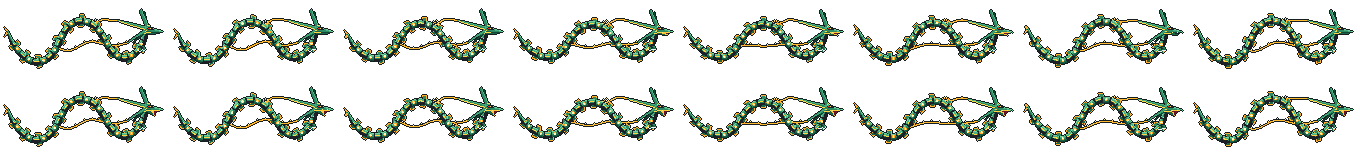
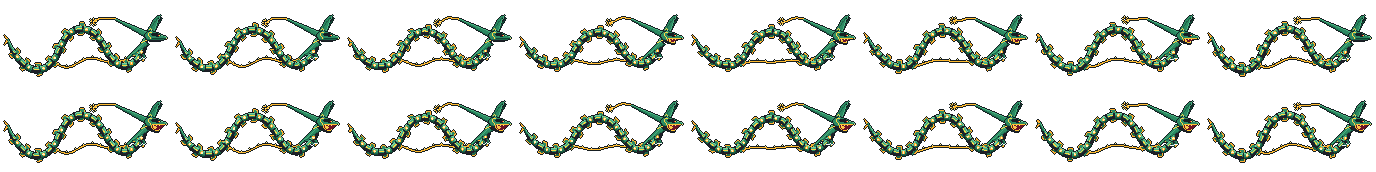
Rayquaza: face redone from scratch, hand-placed pixels from the user's references
Compact wedge head with a crest point, big angry almond eye with the iris
at the front, yellow outline arching behind the eye, thin snout with a
small hooked fang, serrated upper teeth and a deep mauve mouth that opens
downward. Broad upright horn leaning forward, long horn sweeping back and
a long jaw horn. Closed / half / open jaw frames; Mega keeps its black
chin, gold lips, red eyes and forehead delta. Dragon Breath re-aimed at
the new mouth position.

Claude-Session: https://claude.ai/code/session_01CKn8DYnJRYg8MUTevGPU3q

Changed region(s): [[0.0, 0.5641, 1.0, 0.9487], [0.0, 0.0769, 1.0, 0.4359]]

diff --git a/js/config.js b/js/config.js
@@ -122,8 +122,8 @@ export const FORMS = {
   pidgey: { line: 'pidgey', name: 'Pidgey', type: 'flying', stage: 0, next: [{ to: 'pidgeotto', r: 'evo_pidgeotto' }] },
   pidgeotto: { line: 'pidgey', name: 'Pidgeotto', type: 'flying', stage: 1, next: [{ to: 'pidgeot', r: 'evo_pidgeot' }] },
   pidgeot: { line: 'pidgey', name: 'Pidgeot', type: 'flying', stage: 2 },
-  rayquaza: { line: 'rayquaza', name: 'Rayquaza', type: 'dragon', stage: 0, mouth: [65, -45], anim: 8, next: [{ to: 'megarayquaza', r: 'megastone' }] },
-  megarayquaza: { line: 'rayquaza', name: 'Mega Rayquaza', type: 'dragon', stage: 1, mouth: [70, -52], anim: 8, proj: 'megabreath', mult: { hp: 2, dmg: 1.8, range: 1.5, speed: 1.2 } },
+  rayquaza: { line: 'rayquaza', name: 'Rayquaza', type: 'dragon', stage: 0, mouth: [67, -47], anim: 8, next: [{ to: 'megarayquaza', r: 'megastone' }] },
+  megarayquaza: { line: 'rayquaza', name: 'Mega Rayquaza', type: 'dragon', stage: 1, mouth: [72, -53], anim: 8, proj: 'megabreath', mult: { hp: 2, dmg: 1.8, range: 1.5, speed: 1.2 } },
 };
 
 export const BUILDINGS = {

diff --git a/tools/rayquaza.py b/tools/rayquaza.py
@@ -83,7 +83,7 @@ class Canvas:
 NORMAL = {
     "hi": (150, 232, 196), "light": (98, 204, 156), "mid": (64, 170, 124), "dark": (42, 130, 96), "shadow": (28, 94, 72),
     "line": (250, 218, 74), "trim": (224, 72, 84), "trimdark": (160, 40, 60),
-    "mouth": (104, 22, 40), "gum": (240, 124, 146), "lip": (222, 60, 72), "fang": (250, 250, 250),
+    "mouth": (150, 84, 116), "gum": (214, 150, 186), "lip": (190, 74, 104), "fang": (250, 250, 250),
     "eye": (250, 222, 70), "pupil": (20, 20, 24), "claw": (244, 244, 248),
     "black": (34, 34, 42), "blackhi": (58, 58, 70),
 }
@@ -192,78 +192,101 @@ def serpent(cv, spine_pts, radius, pal, segments=10, mega=False, black=None):
     return sp, S, tang
 
 
-def head(cv, hx, hy, pal, mega=False, k=0.72, open_=1.0):
-    """Small, sharp head facing right: a narrow beak-like snout under a raised brow crest,
-    angry almond eye, jaw dropped wide open, long thin blade horns.
-    (hx, hy) is where the neck meets the back of the skull. Returns the horn tips."""
-    def P(dx, dy):
-        return (hx + dx * k, hy + dy * k)
+# ------------------------------------------------------------------ head (hand-placed pixels)
+# Facing right. Drawn from the user's reference art: a compact wedge head with a crest spike
+# above a long, angry almond eye, a yellow-outlined plate behind the eye, a thin snout that
+# slopes to a small hooked fang, and a deep mouth that opens downward like a beak.
+# K outline, H/L/M/D/S greens, Y yellow line, E iris, P pupil, R lip, O mouth, G tongue, W tooth.
+HEAD_UPPER = [
+    ".......K................",
+    "......KHK...............",
+    "...KKKLMMKKK............",
+    "..KMMYYYMMMMKKK.........",
+    ".KMMYMMMKKKKKKMKK.......",
+    "KMMMYMMKKKKKKKKKMKK.....",
+    "KMMMYMMMKKKKKKEPKHHKK...",
+    "KMMMMYMMMMMMKKKMMMMMLHK.",
+    ".KMMMMYMMMMMMMMMMMMMMMHK",
+]
+HEAD_JAW = {
+    "open": [
+        ".KDMMMYMRRRRRRRRRRRRRKWK",
+        "..KDDMMROWOOWOOWOOOOK.K.",
+        "..KDDDDROGGGOOOOOOOK....",
+        "...KDDDROGGGGOOOOOK.....",
+        "...KDDDDROGGOOOOOK......",
+        "....KDDDDROOOOOWK.......",
+        ".....KKDDDDRRRRK........",
+        ".......KKKDDDDDK........",
+        "..........KKKKK.........",
+    ],
+    "half": [
+        ".KDMMMYMRRRRRRRRRRRRRKWK",
+        "..KDDMMROWOOWOOWOOKK.K..",
+        "..KDDDDROGGOOOOOKK......",
+        "...KKDDDDRROOOWK........",
+        ".....KKDDDDRRRRK........",
+        ".......KKKKDDDDK........",
+        "...........KKKK.........",
+    ],
+    "closed": [
+        ".KDMMMYMSSSSSSSSSSSSSSWK",
+        "..KDDDDDDDDDDDDDDDDDKK..",
+        "...KKDDDDDDDDDDDDKK.....",
+        ".....KKKKKKKKKKKK.......",
+    ],
+}
+HEAD_NECK = (2, 12)  # grid pixel where the neck joins
 
-    def poly(pts, c):
-        cv.poly([P(*p) for p in pts], c)
 
-    def line(a, b, c):
-        (x0, y0), (x1, y1) = P(*a), P(*b)
-        cv.line(x0, y0, x1, y1, c)
+def head(cv, hx, hy, pal, mega=False, open_=1.0):
+    """Draw the head with its neck point at (hx, hy). Returns the horn tips (absolute)."""
+    ox, oy = int(round(hx)) - HEAD_NECK[0], int(round(hy)) - HEAD_NECK[1]
 
-    h = 1.35 if mega else 1.0
-    tip_v = (2 - 6 * h, -8 - 16 * h)      # horn rising up and back
-    tip_b = (-6 - 24 * h, -3 - 9 * h)     # long horn sweeping straight back
-    tip_j = (-4 - 16 * h, 4 + 9 * h)      # long jaw horn hanging back
-    # far-side horns (shadow)
-    poly([(0, -5), (4, -6.5), (tip_v[0] + 5, tip_v[1] + 2)], pal["shadow"])
-    poly([(-1, 1), (2, 2.5), (tip_j[0] + 6, tip_j[1] + 3)], pal["shadow"])
-    # lower jaw swings from closed (tucked under the snout) to wide open
-    o = max(0.0, min(1.0, open_))
-    jx, jy = 20 + (13.5 - 20) * o, 2.6 + (8.6 - 2.6) * o
-    poly([(2, 1.6), (7, 1.4), (jx, jy), (jx - 1.5, jy + 0.8), (2, 4)], pal["dark"])
-    # mouth
-    if o > 0.3:
-        poly([(7, 1.3), (19, 1.3), (jx - 0.5, jy - 0.4)], pal["mouth"])
-        if o > 0.45:
-            poly([(9, 3), (13, 3.3), (jx - 0.5, jy - 2)], pal["gum"])
-        line((7, 1.8), (jx - 0.5, jy - 0.4), pal["lip"])
-        line((7, 1.2), (19, 1.2), pal["lip"])
-    else:
-        # mouth (nearly) closed: just a dark seam with a hint of red at the corner
-        line((7, 1.4), (19, 1.4), pal["shadow"])
-        cv.set(*P(7.5, 1.6), pal["lip"])
-    # skull + narrow beak: raised brow crest, then a long straight slope to a needle tip
-    poly([(-3, -1), (-1, -4.2), (5, -6.4), (9, -4.4), (23, 0.4), (21, 1.3), (7, 1.2), (1, 2)], pal["mid"])
-    line((-1, -4), (5, -6.2), pal["light"])
-    line((9, -4.2), (23, 0.4), pal["hi"])
-    line((9, -3.2), (20.5, 0.3), pal["light"])
-    line((-2, 0.7), (7, 0.8), pal["dark"])
-    # tiny teeth (only show when the mouth is open)
-    if o > 0.25:
-        cv.set(*P(17, 1.8), pal["fang"])
-        cv.set(*P(11, 1.8), pal["fang"])
-    # long almond eye (like the references): black rim slanting down toward the snout,
-    # iris at the back, pupil in front, and a thin trailing corner
-    ex, ey = P(4.8, -3.4)
-    ex, ey = int(ex), int(ey)
-    rim = pal["black"]
-    for ox, oy in ((0, -1), (1, -1), (2, -1), (3, 0), (4, 0), (5, 1), (-1, 0), (0, 1), (1, 1), (2, 1), (3, 1), (4, 1)):
-        cv.set(ex + ox, ey + oy, rim)
-    cv.set(ex, ey, pal["eye"])
-    cv.set(ex + 1, ey, pal["eye"])
-    cv.set(ex + 2, ey, pal["pupil"] if not mega else pal["pupil"])
-    # yellow line from behind the eye back along the head toward the neck
-    line((2, -0.8), (-3, 0.2), pal["line"])
-    # near horns: long thin blades
-    poly([(1, -4.8), (5, -6.4), tip_v, (tip_v[0] - 1.5, tip_v[1] + 2)], pal["mid"])
-    line((4.5, -6.3), tip_v, pal["light"])
-    poly([(-2, -2.6), (2.5, -5.6), tip_b, (tip_b[0] + 2, tip_b[1] + 2)], pal["mid"])
-    line((2, -5.4), tip_b, pal["light"])
-    line((-1.5, -2.8), (tip_b[0] + 2, tip_b[1] + 1.8), pal["line"] if mega else pal["dark"])
-    poly([(-2.5, -0.5), (2, 2), tip_j], pal["mid"])
-    line((-2, -0.2), tip_j, pal["light"])
+    def A(x, y):
+        return (ox + x, oy + y)
+
+    h = 1.3 if mega else 1.0
+    # horns first (head pixels overlap their roots): upright horn leaning forward,
+    # long horn sweeping back, long jaw horn hanging back
+    tip_v = A(12 * h, -11 * h)
+    tip_b = A(-22 * h, -8 * h)
+    tip_j = A(-14 * h, 23 * h)
+    # far-side copy of the upright horn, then the broad flat upright horn leaning forward
+    cv.poly([A(8, 2), A(11, 2), (tip_v[0] + 3, tip_v[1] + 2)], pal["shadow"])
+    cv.poly([A(3, 3), A(10, 2), tip_v, A(8 * h, -8 * h)], pal["mid"])
+    cv.line(*A(9.5, 2), *tip_v, pal["light"])
+    cv.line(*A(3.5, 3), tip_v[0] - 2, tip_v[1] + 2, pal["dark"])
+    # long horn sweeping back
+    cv.poly([A(1, 8), A(4, 3), tip_b], pal["mid"])
+    cv.line(*A(3.5, 3.4), *tip_b, pal["light"])
+    cv.line(*A(1.5, 7.5), tip_b[0] + 1, tip_b[1] + 1, pal["dark"])
+    # long jaw horn hanging back
+    cv.poly([A(0, 12), A(4, 15), tip_j], pal["mid"])
+    cv.line(*A(0.5, 12.5), *tip_j, pal["light"])
+    cv.line(*A(3.5, 14.5), *tip_j, pal["dark"])
+
+    jaw = "open" if open_ > 0.6 else "half" if open_ > 0.25 else "closed"
+    rows = HEAD_UPPER + HEAD_JAW[jaw]
+    cmap = {
+        "K": OUT[:3], "H": pal["hi"], "L": pal["light"], "M": pal["mid"], "D": pal["dark"], "S": pal["shadow"],
+        "Y": pal["line"], "E": pal["eye"], "P": pal["pupil"], "R": pal["lip"], "O": pal["mouth"], "G": pal["gum"],
+        "W": pal["fang"],
+    }
+    for y, row in enumerate(rows):
+        for x, ch in enumerate(row):
+            if ch == ".":
+                continue
+            c = cmap[ch]
+            if mega and ch == "D" and y >= 11:
+                c = pal["black"]  # Mega's black chin
+            cv.set(ox + x, oy + y, c)
     if mega:
-        line((7, 1.8), (-1, 2.5), pal["line"])
-        cv.set(*P(5, -7.6), pal["line"])
-        cv.set(*P(4, -6.8), pal["line"])
-        cv.set(*P(6, -6.8), pal["line"])
-    return {"up": P(*tip_v), "back": P(*tip_b), "jaw": P(*tip_j)}
+        # golden delta on the forehead and a gold line from the lips back to the jaw horn
+        for dx, dy in ((6, -1), (5, 0), (7, 0)):
+            cv.set(ox + dx, oy + dy, pal["line"])
+        cv.line(*A(2, 11), *A(-3, 13), pal["line"])
+    return {"up": tip_v, "back": tip_b, "jaw": tip_j}
 
 
 def arm(cv, x, y, pal):
@@ -308,27 +331,27 @@ def wave(spine, phase, amp):
 
 
 def rayquaza(phase=0.0, open_=0.2):
-    W, H = 150, 64
+    W, H = 152, 70
     cv = Canvas(W, H)
     # big S-curves, like the official figure
-    base = [(8, 23), (14, 33), (22, 43), (32, 49), (43, 48), (51, 41), (56, 31), (62, 22), (71, 16), (82, 17),
-            (91, 24), (97, 34), (104, 43), (114, 47), (124, 42), (129, 33), (130, 25)]
+    base = [(8, 29), (14, 39), (22, 49), (32, 55), (43, 54), (51, 47), (56, 37), (62, 28), (71, 22), (82, 23),
+            (91, 30), (97, 40), (104, 49), (114, 53), (124, 48), (129, 39), (130, 31)]
     spine = wave(base, phase, 2.4)
     d = [p[1] - q[1] for p, q in zip(spine, base)]
     tail_fin(cv, spine[0][0], spine[0][1], NORMAL)
     serpent(cv, spine, slim(2.6, 2.2), NORMAL, segments=22)
-    arm(cv, 123, 39 + d[-3], NORMAL)
-    arm(cv, 127, 38 + d[-2], NORMAL)
-    head(cv, 130, 23 + d[-1], NORMAL, open_=open_)
+    arm(cv, 123, 45 + d[-3], NORMAL)
+    arm(cv, 127, 44 + d[-2], NORMAL)
+    head(cv, 131, 31 + d[-1], NORMAL, open_=open_)
     cv.outline()
     return cv.img
 
 
 def mega_rayquaza(phase=0.0, open_=0.2):
-    W, H = 170, 78
+    W, H = 172, 86
     cv = Canvas(W, H)
-    base = [(8, 32), (14, 43), (23, 53), (34, 59), (46, 58), (55, 50), (61, 39), (68, 29), (78, 23), (90, 24),
-            (100, 32), (107, 43), (115, 53), (126, 57), (137, 51), (143, 41), (145, 33)]
+    base = [(8, 40), (14, 51), (23, 61), (34, 67), (46, 66), (55, 58), (61, 47), (68, 37), (78, 31), (90, 32),
+            (100, 40), (107, 51), (115, 61), (126, 65), (137, 59), (143, 49), (145, 41)]
     spine = wave(base, phase, 2.8)
     d = [p[1] - q[1] for p, q in zip(spine, base)]
 
@@ -336,7 +359,7 @@ def mega_rayquaza(phase=0.0, open_=0.2):
         k = int(s * 26)
         return (v < -0.2 and k % 2 == 1) or (s > 0.92 and v < 0)
     tail_fin(cv, spine[0][0], spine[0][1], MEGA, mega=True)
-    hx, hy = 145, 31 + d[-1]
+    hx, hy = 146, 41 + d[-1]
     # draw the head first on a scratch canvas just to get the horn tips
     tips = head(Canvas(W, H), hx, hy, MEGA, mega=True)
     gold, glow = (255, 186, 48), (255, 236, 150)
@@ -369,8 +392,8 @@ def mega_rayquaza(phase=0.0, open_=0.2):
         cv.set(rx + math.cos(math.radians(a2)) * 3.4, ry + math.sin(math.radians(a2)) * 3.4, glow)
     cv.set(rx, ry, glow)
     serpent(cv, spine, slim(3.0, 2.5), MEGA, segments=26, mega=True, black=black)
-    arm(cv, 138, 47 + d[-3], MEGA)
-    arm(cv, 142, 46 + d[-2], MEGA)
+    arm(cv, 138, 55 + d[-3], MEGA)
+    arm(cv, 142, 54 + d[-2], MEGA)
     head(cv, hx, hy, MEGA, mega=True, open_=open_)
     cv.outline()
     return cv.img
